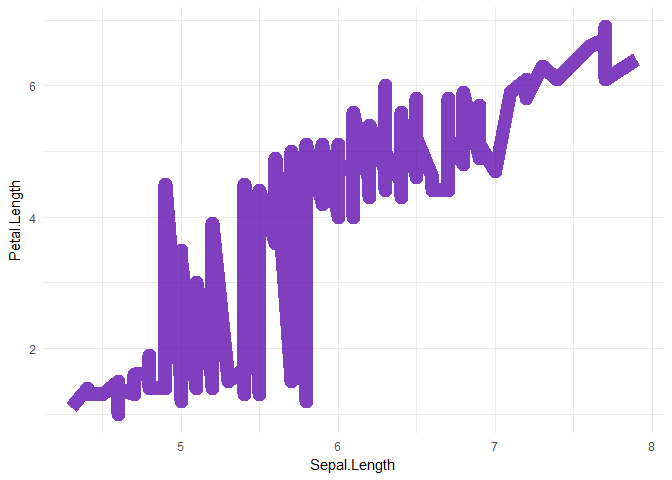
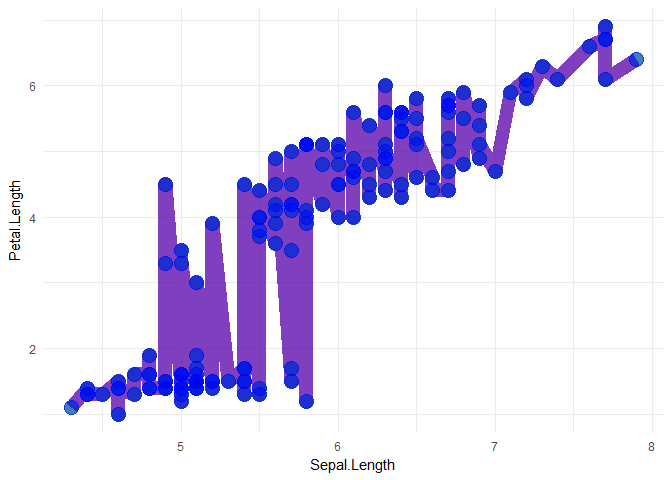
update README

diff --git a/README.md b/README.md
@@ -3,17 +3,20 @@
 geomclone
 =========
 
+This is a test package for cloning ggplot2 Layers using "ggplot2\_add" (<https://github.com/tidyverse/ggplot2/pull/2309>).
+
 Example
 -------
 
 ``` r
 library(ggplot2)
 
-a <- ggplot(iris, aes(Sepal.Length, Petal.Length)) +
+p <- ggplot(iris, aes(Sepal.Length, Petal.Length)) +
   geom_line(colour = alpha("red", 0.5), size = 5) +
+  geom_point(colour = alpha("green", 0.5), size = 5) +
   theme_minimal()
 
-a
+p
 ```
 
 ![](man/figures/README-usual-1.png)
@@ -21,7 +24,7 @@ a
 ``` r
 library(geomclone)
 
-a + geom_clone(colour = alpha("blue", 0.5))
+p + geom_clone(colour = alpha("blue", 0.5))
 ```
 
 ![](man/figures/README-clone-1.png)
